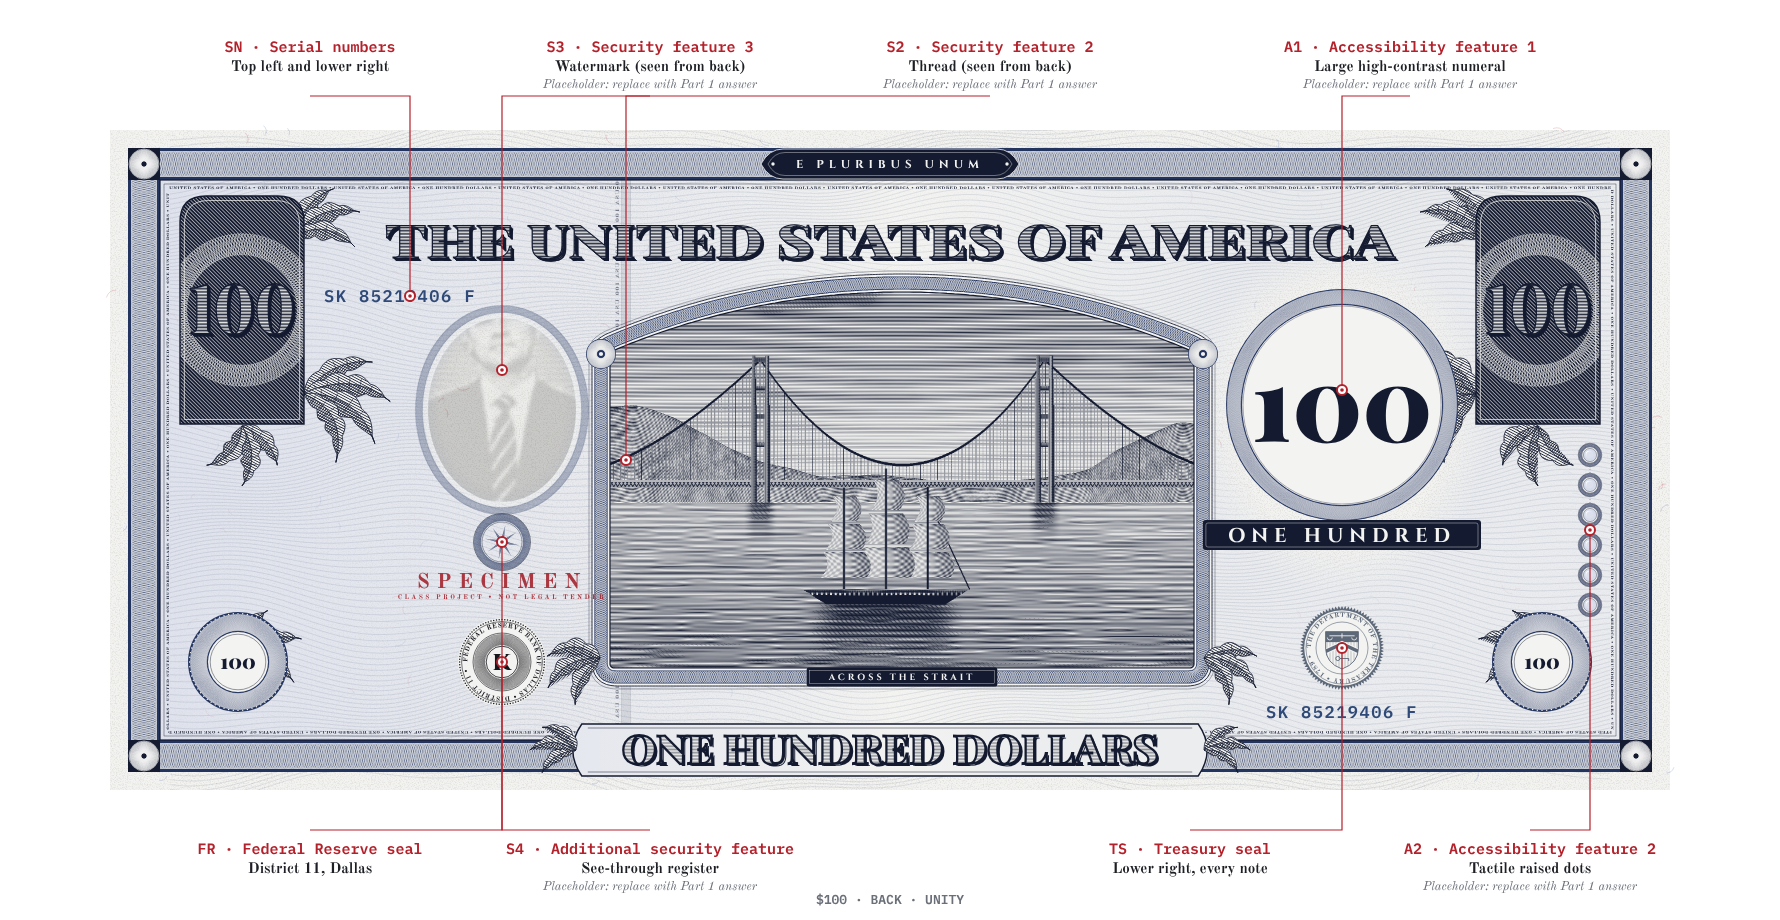
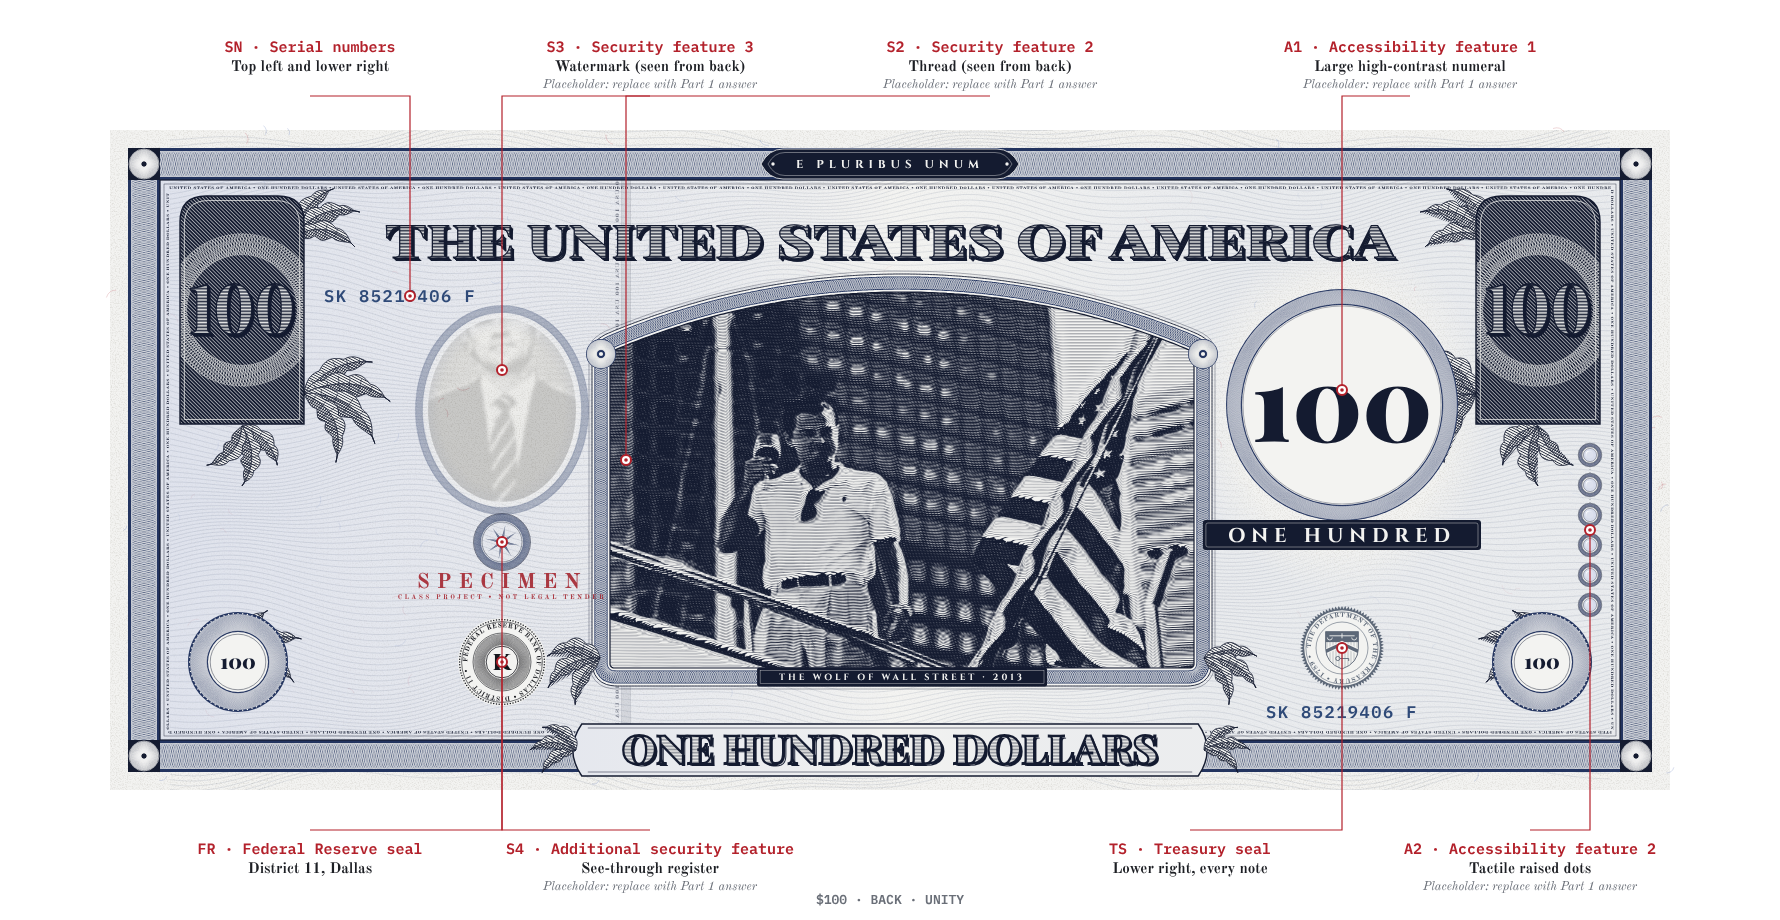
Use the Wolf of Wall Street yacht scene on the $100 back
Claude-Session: https://claude.ai/code/session_015KBLhp8b1QN2JqUJfMzhqz

Changed region(s): [[0.3399, 0.3043, 0.6798, 0.7609]]

diff --git a/generator/design/notes.js b/generator/design/notes.js
@@ -29,7 +29,7 @@ const DENOMS = {
        plate: "#141b30", primary: "#23345f", secondary: "#8e99a8", tint1: "#d7dceb", tint2: "#e4e7ec", paper: "#f3f3f1",
        pattern: "flow", patternOpts: { gap: 5 }, serialInk: "#2f4a78", sealColor: "#5d6878", ovi: ["#5e3a1c", "#b88c52", "#6e8f86", "#26505f"],
        sealInk: "#15171d", district: 11, letter: "K", city: "DALLAS", serial: "SK 85219406 F", plateNo: "E 2", check: "K 8",
-       thread: 1044, dots: 6, front: { scene: "hundred-front", caption: "JORDAN BELFORT \u00b7 THE WOLF OF WALL STREET" }, back: { scene: "hundred-back", caption: "ACROSS THE STRAIT" } },
+       thread: 1044, dots: 6, front: { scene: "hundred-front", caption: "JORDAN BELFORT \u00b7 THE WOLF OF WALL STREET" }, back: { scene: "hundred-back", caption: "THE WOLF OF WALL STREET \u00b7 2013" } },
 };
 const SIGS = [["Eleanor Whitcombe", "Treasurer of the United States"], ["James T. Okafor", "Secretary of the Treasury"]];
 

diff --git a/generator/portraits/prep.py b/generator/portraits/prep.py
@@ -97,6 +97,7 @@ outputs = {
     "one-back": scene("delaware.png", (380, 0, 422)),
     "five-back": scene("wardogs-scene.png", (349, 0, 420), gamma=.75),
     "fifty-back": scene("takecare.png", (112, 18, 156), blur=.4, gamma=.7),
+    "hundred-back": scene("wolf-yacht.png", (345, 0, 452), gamma=.85),
     "five-front": person("hill.png", (186, 74, 250)),
     "ten-front": person("jobs.png", (180, 0, 411), not_white=True),
     "hundred-front": person("dicaprio.png", (229, 138, 330), keep_x=(110, 340)),
